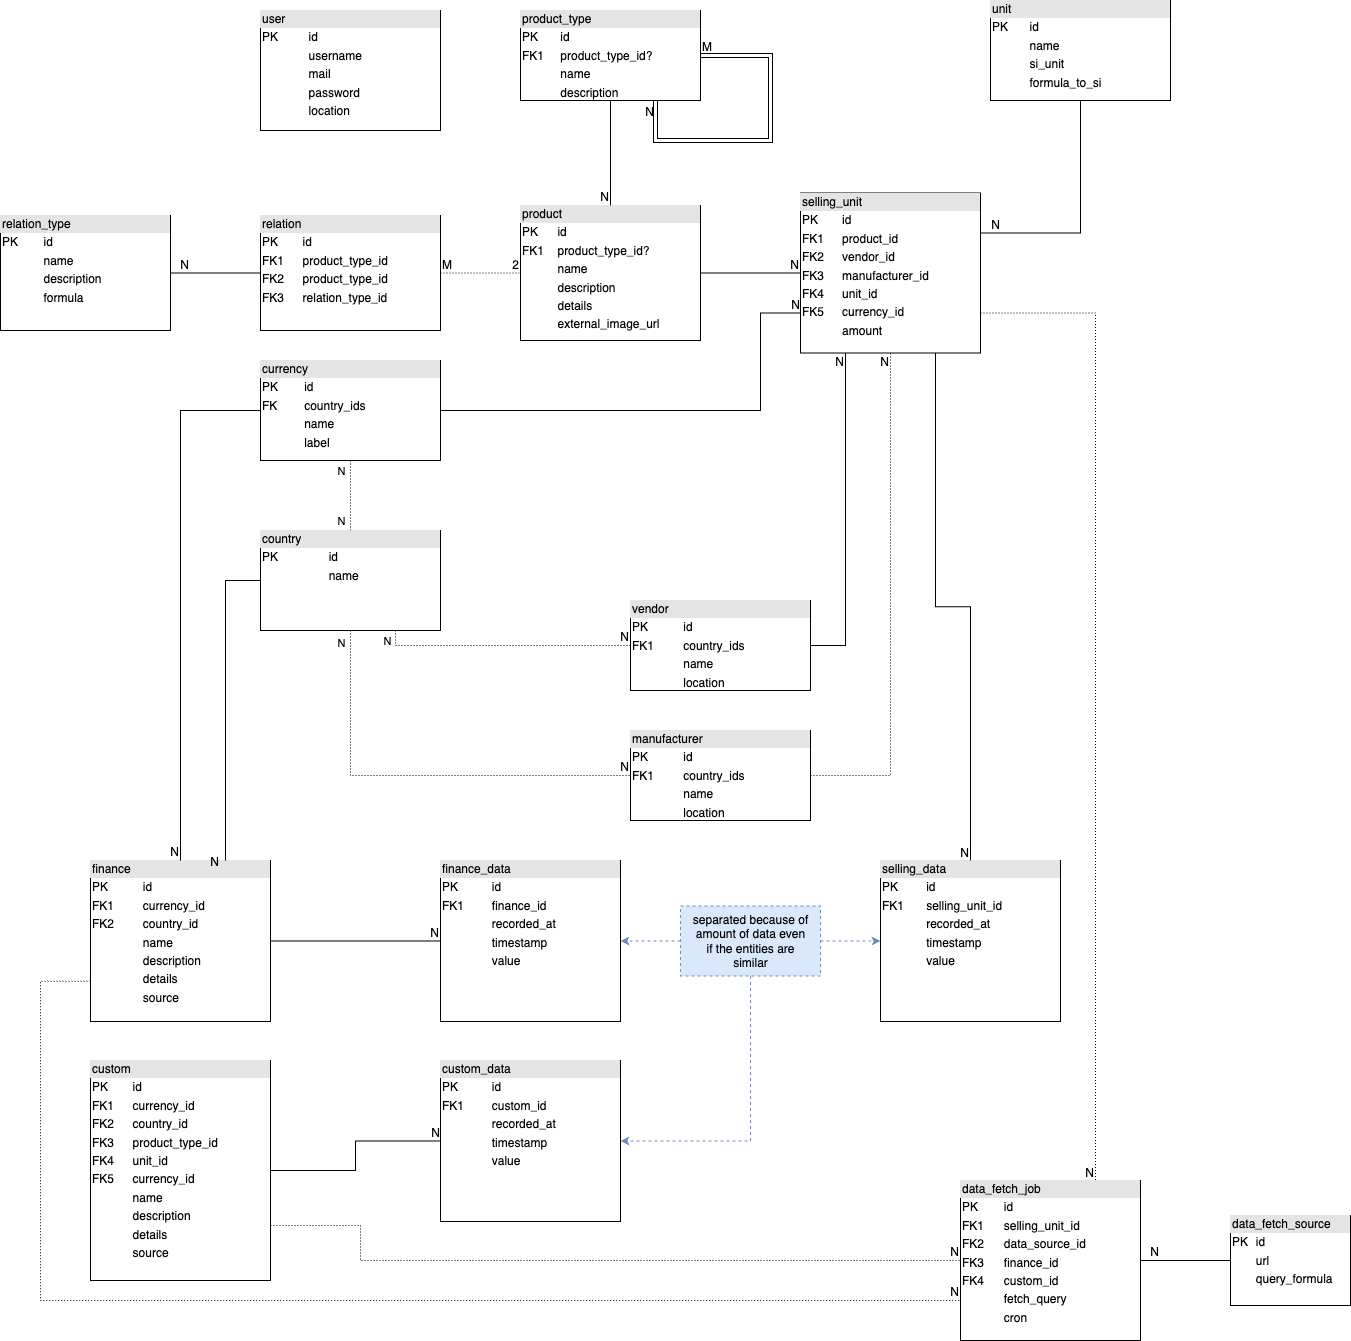
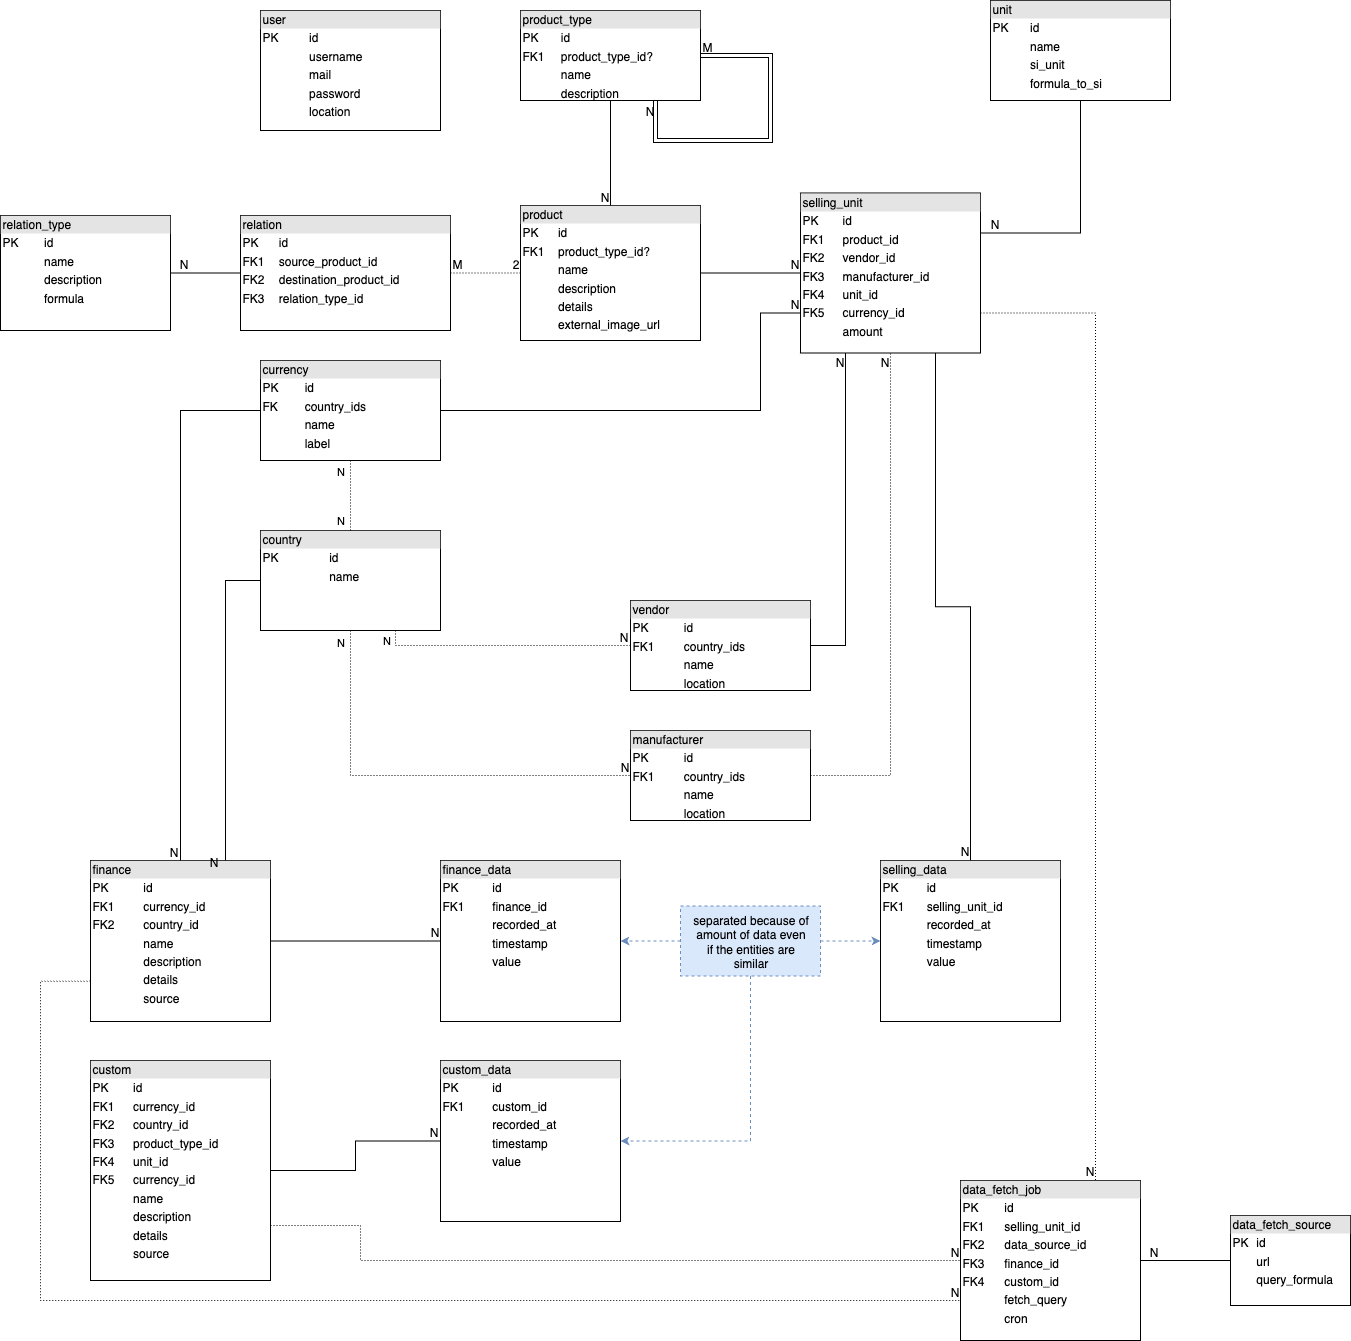
feat: add relations and relation types migrations and update schema diagram

diff --git a/db/schema.rb b/db/schema.rb
@@ -10,7 +10,7 @@
 #
 # It's strongly recommended that you check this file into your version control system.
 
-ActiveRecord::Schema[7.2].define(version: 2024_10_18_204410) do
+ActiveRecord::Schema[7.2].define(version: 2025_08_23_233219) do
   # These are extensions that must be enabled in order to support this database
   enable_extension "plpgsql"
 
@@ -55,6 +55,26 @@ ActiveRecord::Schema[7.2].define(version: 2024_10_18_204410) do
     t.datetime "created_at", null: false
     t.datetime "updated_at", null: false
     t.index ["product_type_id"], name: "index_products_on_product_type_id"
+  end
+
+  create_table "relation_types", force: :cascade do |t|
+    t.string "name"
+    t.text "description"
+    t.text "formula"
+    t.datetime "created_at", null: false
+    t.datetime "updated_at", null: false
+  end
+
+  create_table "relations", force: :cascade do |t|
+    t.bigint "source_product_id"
+    t.bigint "destination_product_id"
+    t.bigint "relation_type_id", null: false
+    t.datetime "created_at", null: false
+    t.datetime "updated_at", null: false
+    t.index ["destination_product_id"], name: "index_relations_on_destination_product_id"
+    t.index ["relation_type_id"], name: "index_relations_on_relation_type_id"
+    t.index ["source_product_id", "destination_product_id", "relation_type_id"], name: "idx_on_source_product_id_destination_product_id_rel_80373bcedc", unique: true
+    t.index ["source_product_id"], name: "index_relations_on_source_product_id"
   end
 
   create_table "selling_data", force: :cascade do |t|
@@ -102,6 +122,9 @@ ActiveRecord::Schema[7.2].define(version: 2024_10_18_204410) do
   add_foreign_key "countries", "currencies"
   add_foreign_key "manufacturers", "countries"
   add_foreign_key "products", "product_types"
+  add_foreign_key "relations", "products", column: "destination_product_id"
+  add_foreign_key "relations", "products", column: "source_product_id"
+  add_foreign_key "relations", "relation_types"
   add_foreign_key "selling_data", "selling_units"
   add_foreign_key "selling_units", "currencies"
   add_foreign_key "selling_units", "manufacturers"

diff --git a/db/migrate/20250823233219_add_relation_ref_to_relation_and_product.rb b/db/migrate/20250823233219_add_relation_ref_to_relation_and_product.rb
@@ -1,0 +1,10 @@
+class AddRelationRefToRelationAndProduct < ActiveRecord::Migration[7.2]
+  def change
+    add_index :relations, :source_product_id
+    add_index :relations, :destination_product_id
+    add_index :relations, [:source_product_id, :destination_product_id, :relation_type_id], unique: true
+
+    add_foreign_key :relations, :products, column: :source_product_id
+    add_foreign_key :relations, :products, column: :destination_product_id
+  end
+end

diff --git a/db/migrate/20250823232358_create_relations.rb b/db/migrate/20250823232358_create_relations.rb
@@ -1,0 +1,11 @@
+class CreateRelations < ActiveRecord::Migration[7.2]
+  def change
+    create_table :relations do |t|
+      t.bigint :source_product_id
+      t.bigint :destination_product_id
+      t.references :relation_type, null: false, foreign_key: true
+
+      t.timestamps
+    end
+  end
+end

diff --git a/db/migrate/20250823230754_create_relation_types.rb b/db/migrate/20250823230754_create_relation_types.rb
@@ -1,0 +1,11 @@
+class CreateRelationTypes < ActiveRecord::Migration[7.2]
+  def change
+    create_table :relation_types do |t|
+      t.string :name
+      t.text :description
+      t.text :formula
+
+      t.timestamps
+    end
+  end
+end

diff --git a/test/controllers/test_site_controller_test.rb b/test/controllers/test_site_controller_test.rb
@@ -1,0 +1,7 @@
+require "test_helper"
+
+class TestSiteControllerTest < ActionDispatch::IntegrationTest
+  # test "the truth" do
+  #   assert true
+  # end
+end

diff --git a/test/controllers/test_controller_test.rb b/test/controllers/test_controller_test.rb
@@ -1,0 +1,7 @@
+require "test_helper"
+
+class TestControllerTest < ActionDispatch::IntegrationTest
+  # test "the truth" do
+  #   assert true
+  # end
+end

diff --git a/app/helpers/test_site_helper.rb b/app/helpers/test_site_helper.rb
@@ -1,0 +1,2 @@
+module TestSiteHelper
+end

diff --git a/app/helpers/test_helper.rb b/app/helpers/test_helper.rb
@@ -1,0 +1,2 @@
+module TestHelper
+end
